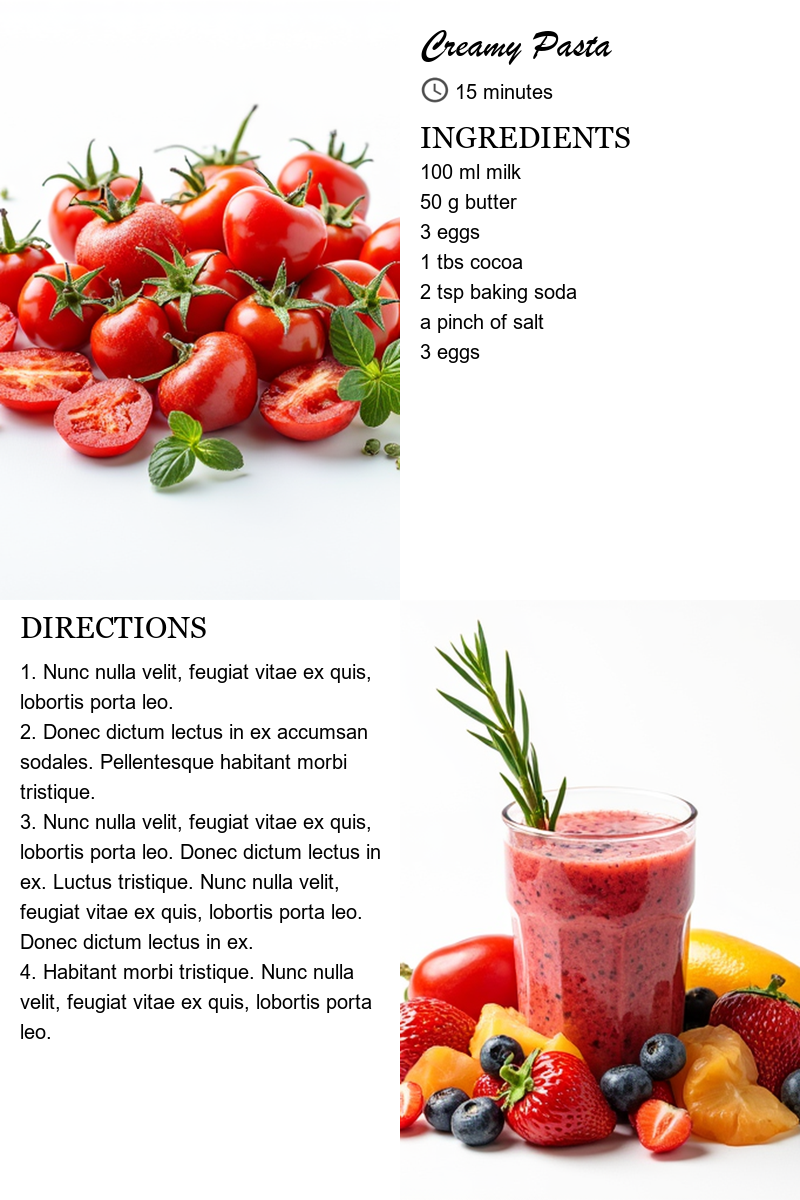
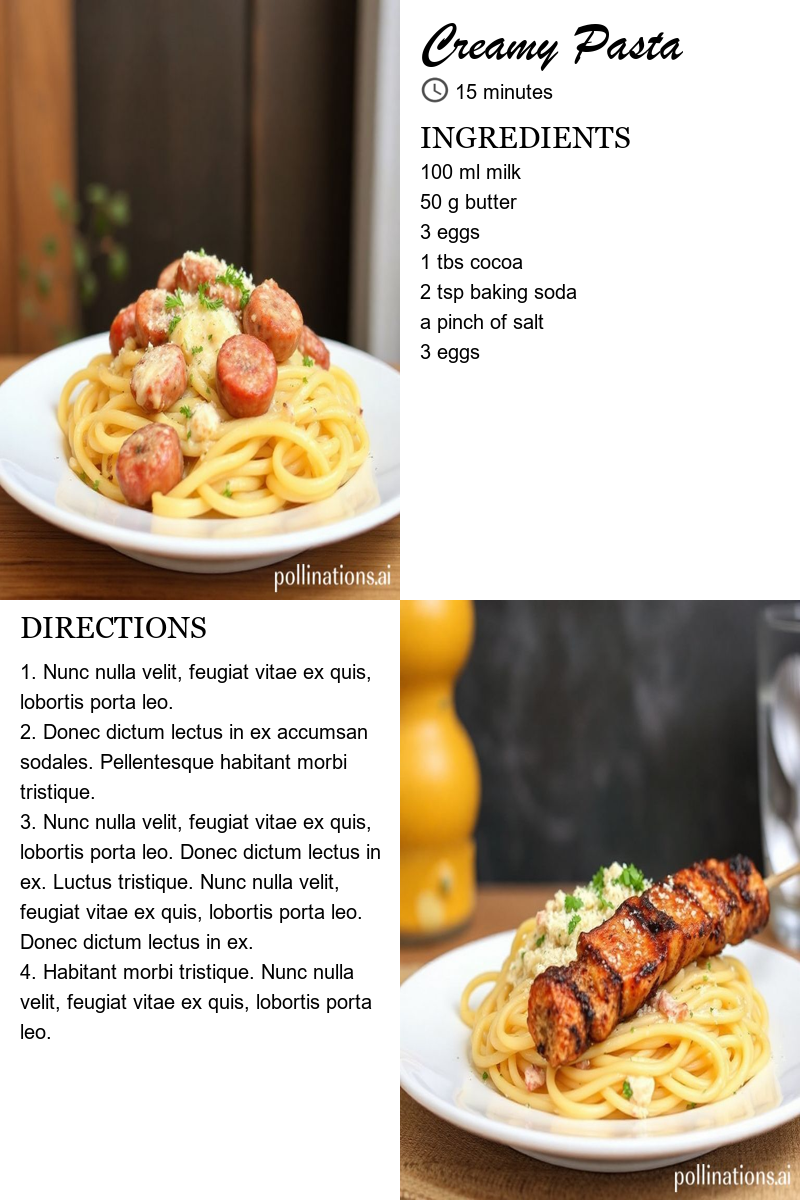
page 2 template complete, image generation with ai begin

diff --git a/main.py b/main.py
@@ -8,6 +8,9 @@ from classes.writer import Writer
 from classes.base import RecipeBook
 
 from PIL import Image, ImageDraw, ImageFont
+import requests
+import time
+from datetime import datetime
 
 
 def generate_recipe_titles(writer, system_prompt):
@@ -32,12 +35,12 @@ def template_1_page_generator(image1_path, image2_path, stopwatch_path, title, t
     draw = ImageDraw.Draw(new_image)
 
     # Define fonts
-    title_font = ImageFont.truetype("brushscript.ttf", 40)
+    title_font = ImageFont.truetype("brushscript.ttf", 55)
     subtitle_font = ImageFont.truetype("georgia.ttf", 30)
     text_font = ImageFont.truetype("arial.ttf", 20)
 
     # Add title
-    draw.text((3 * width // 4 - 180, 20), title, font=title_font, fill="black")
+    draw.text((3 * width // 4 - 180, 10), title, font=title_font, fill="black")
 
     # Add time
     stopwatch = stopwatch.resize((30, 30))  # Resize the stopwatch image
@@ -84,7 +87,7 @@ def template_1_page_generator(image1_path, image2_path, stopwatch_path, title, t
     new_image.save(save_path)
 
 
-def template_2_page_generator(image1_path, image2_path, image3_path, stopwatch_path, title, time, ingredients, directions, save_path):
+def template_2_page_generator(image1_path, image2_path, image3_path, stopwatch_path, title, title2, time, ingredients, directions, save_path):
     # Load images
     image1 = Image.open(image1_path)
     image2 = Image.open(image2_path)
@@ -97,33 +100,35 @@ def template_2_page_generator(image1_path, image2_path, image3_path, stopwatch_p
     draw = ImageDraw.Draw(new_image)
 
     # Define fonts
-    title_font = ImageFont.truetype("brushscript.ttf", 40)
+    title_font = ImageFont.truetype("brushscript.ttf", 80)
+    title2_font = ImageFont.truetype("brushscript.ttf", 50)
     subtitle_font = ImageFont.truetype("georgia.ttf", 30)
     text_font = ImageFont.truetype("arial.ttf", 20)
 
     # Add title
-    draw.text((3 * width // 4 - 180, 20), title, font=title_font, fill="black")
+    draw.text((50, height // 2 - 330), title, font=title_font, fill="black")
+    draw.text((50, height // 2 - 235), title2, font=title2_font, fill="black")
 
     # Add time
     stopwatch = stopwatch.resize((30, 30))  # Resize the stopwatch image
-    new_image.paste(stopwatch, (3 * width // 4 - 180, 75))  # Paste the stopwatch image
-    draw.text((3 * width // 4 - 145, 80), time, font=text_font, fill="black")
+    new_image.paste(stopwatch, (width - 200, height // 2 - 190))  # Paste the stopwatch image
+    draw.text((width - 165, height // 2 - 185), time, font=text_font, fill="black")
 
     # Add ingredients title
-    draw.text((3 * width // 4 - 180, 120), "INGREDIENTS", font=subtitle_font, fill="black")
+    draw.text((75, height // 2 - 120), "INGREDIENTS", font=subtitle_font, fill="black")
 
     # Add ingredients list
-    y_position = 160
+    y_position = height // 2 - 80
     for ingredient in ingredients:
-        draw.text((3 * width // 4 - 180, y_position), ingredient, font=text_font, fill="black")
+        draw.text((75, y_position), ingredient, font=text_font, fill="black")
         y_position += 30
 
     # Add directions title
-    draw.text((20, height - 590), "DIRECTIONS", font=subtitle_font, fill="black")
+    draw.text((width // 2 - 50, height // 2 - 120), "DIRECTIONS", font=subtitle_font, fill="black")
 
     # Add directions text
-    y_position = height - 540
-    max_width = width // 2 - 20  # 50 percent of the page width
+    y_position = height // 2 - 80
+    max_width = width // 2 + 20  # 50 percent of the page width
 
     for direction in directions:
         lines = []
@@ -134,7 +139,7 @@ def template_2_page_generator(image1_path, image2_path, image3_path, stopwatch_p
                 line += (words.pop(0) + ' ')
             lines.append(line)
         for line in lines:
-            draw.text((20, y_position), line, font=text_font, fill="black")
+            draw.text((width // 2 - 50, y_position), line, font=text_font, fill="black")
             y_position += 30
 
 
@@ -145,21 +150,58 @@ def template_2_page_generator(image1_path, image2_path, image3_path, stopwatch_p
     # Crop 40% from top and bottom
     crop_height = int(image1.height * 0.32)
     crop_width = int(image1.width * 0.1)
+    image3_crop_height = int(image3.height * 0.4)
+    image3_crop_width = int(image3.width * 0.15)
     image1 = image1.crop((crop_width, crop_height, image1.width - crop_width, image1.height - crop_height))
     image2 = image2.crop((crop_width, crop_height, image2.width - crop_width, image2.height - crop_height))
+    image3 = image3.crop((image3_crop_width, image3_crop_height, image3.width - image3_crop_width, image3.height - image3_crop_height))
+    # Draw a line in the middle of the new image, leaving a bit of space from left and right
+    line_margin = 65
+    draw.line(
+        [(line_margin, height // 2 - 150), (width - line_margin, height // 2 - 150)],
+        fill="black",
+        width=3
+    )
+
+    draw.line(
+        [(width // 2 - 100, height // 2 - 115), (width // 2 - 100, height // 2 + 425)],
+        fill="black",
+        width=3
+    )
 
     # Resize images to take half of the page horizontally and vertically
     image1 = image1.resize((image1.width // 2 - 2 * margin, image1.height // 2))
     image2 = image2.resize((image2.width // 2 - 2 * margin, image2.height // 2))
-    image3 = image3.resize((image3.width // 2 + 200 - 2 * margin, image3.height // 2))
+    image3 = image3.resize((image3.width // 2 + 80, image3.height // 2))
 
     # Paste images with margins
     new_image.paste(image1, (margin, 0))
     new_image.paste(image2, (width // 2 + margin, 0))
-    new_image.paste(image3, (width // 4 + margin, height - image3.height - margin))
+    new_image.paste(image3, (25, height - image3.height))
 
     # Save the final image
     new_image.save(save_path)
+
+
+
+def generate_recipe_images_pollynation_ai(prompt, save_path):
+    # Format the prompt for the URL
+    formatted_prompt = prompt.replace(" ", "-")
+    url = f"https://image.pollinations.ai/prompt/{formatted_prompt}"
+
+    # Make the request to the API
+    response = requests.get(url)
+    if response.status_code == 200:
+        # Wait for the image to be generated
+        # time.sleep(10)  # Adjust the sleep time as needed
+
+        # Save the image
+        timestamp = datetime.now().strftime("%Y%m%d_%H%M%S")
+        image_save_path = save_path.replace("img_", f"img_{timestamp}_")
+        with open(image_save_path, 'wb') as f:
+            f.write(response.content)
+    else:
+        print(f"Failed to generate image. Status code: {response.status_code}")
 
 
 if __name__ == "__main__":
@@ -179,6 +221,9 @@ if __name__ == "__main__":
     #     recipe_data = json.loads(recipe_text[0])
     #     print(f"{recipe_data['name']} : {recipe_data['ingredients']}")
 
+    generate_recipe_images_pollynation_ai("Creamy Pasta with sausages", "image1.png")
+    generate_recipe_images_pollynation_ai("Creamy Pasta with kebab", "image2.png")
+    generate_recipe_images_pollynation_ai("Creamy Pasta with milk", "image3.png")
 
 
     template_1_page_generator(
@@ -211,6 +256,7 @@ if __name__ == "__main__":
     image3_path="image3.png",
     stopwatch_path="stopwatch.png",
     title="Creamy Pasta",
+    title2="With delicious sauce",
     time="15 minutes",
     ingredients=[
         "100 ml milk",
